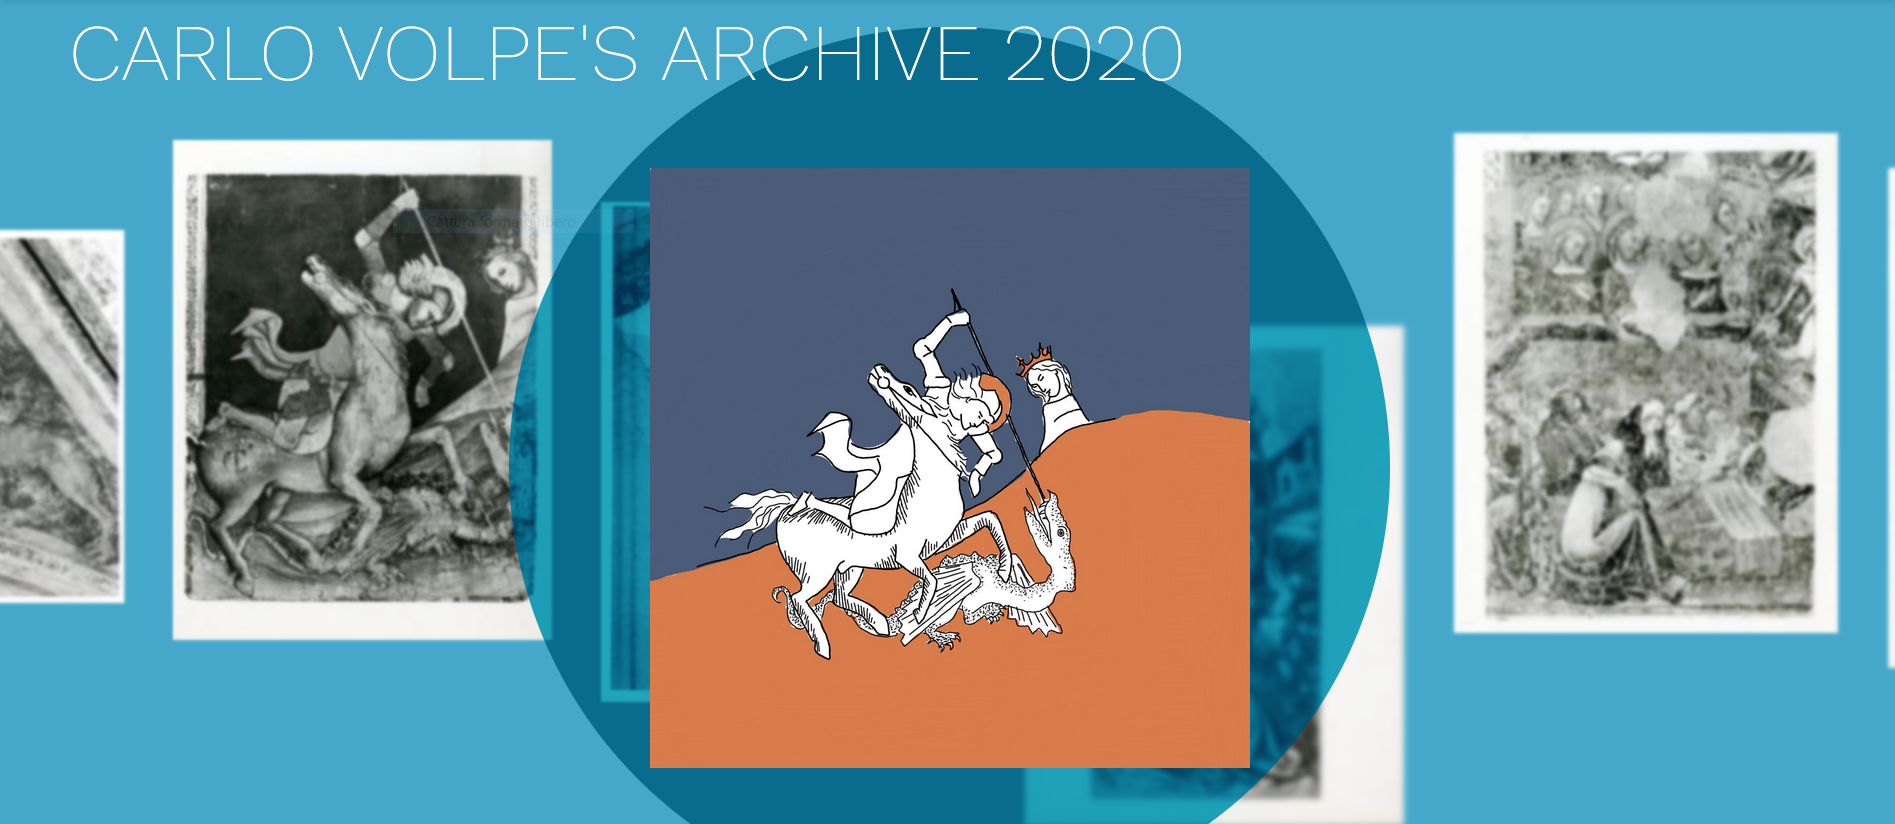
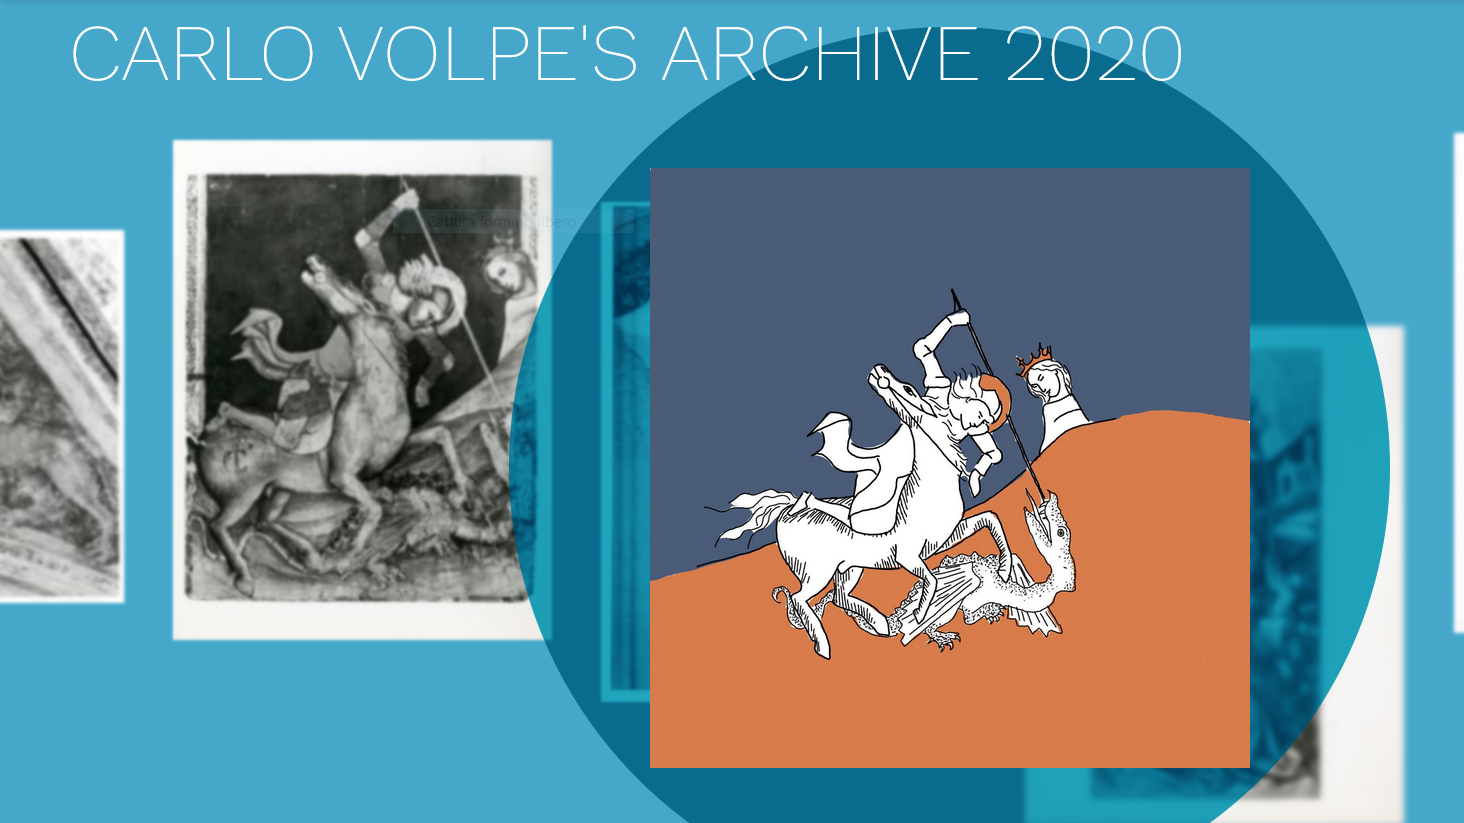
immagine carosello

diff --git a/index.html b/index.html
@@ -74,6 +74,8 @@
             aria-label="Slide 2"></button>
           <button type="button" data-bs-target="#carouselExampleIndicators" data-bs-slide-to="2"
             aria-label="Slide 3"></button>
+            <button type="button" data-bs-target="#carouselExampleIndicators" data-bs-slide-to="3"
+            aria-label="Slide 4"></button>
         </div>
         <div class="carousel-inner">
           <div class="carousel-item active">
@@ -84,6 +86,9 @@
           </div>
           <div class="carousel-item">
             <img src="immagini/carousel1.jpeg" class="d-block w-100" alt="...">
+          </div>
+          <div class="carousel-item">
+            <img src="immagini/exhibition.PNG" class="d-block w-100" alt="...">
           </div>
         </div>
         <button class="carousel-control-prev" type="button" data-bs-target="#carouselExampleIndicators"
